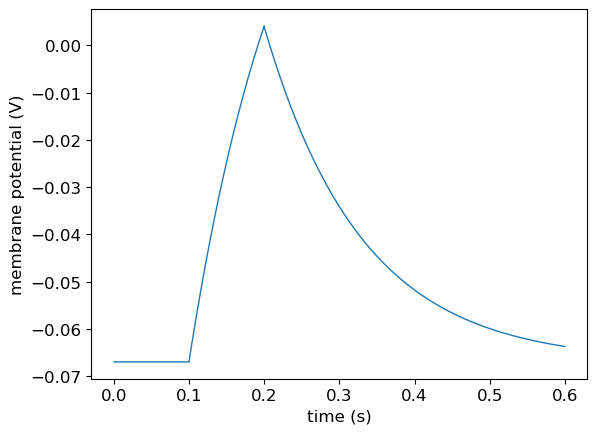
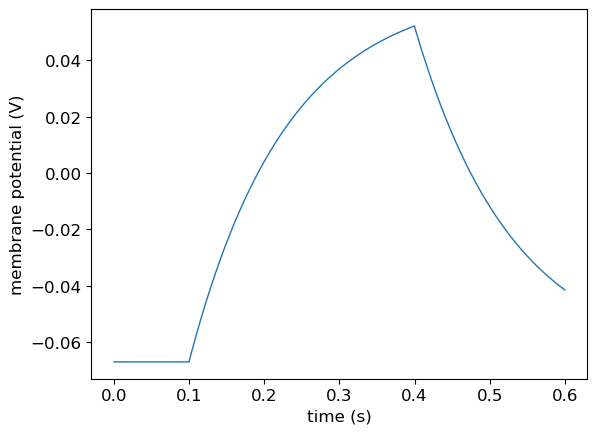
feat: update

diff --git a/source/Userdocs/NML2_examples/olm-example.py b/source/Userdocs/NML2_examples/olm-example.py
@@ -60,6 +60,11 @@ def main():
     simulation.add_column_to_output_file("output0",
                                          column_id="pop0_0_v_Seg1_dend_1",
                                          quantity="pop0/0/olm/7/v")
+    """
+    simulation.add_column_to_output_file("output0",
+                                         column_id="pg0",
+                                         quantity="explicitInput/pg_olm/i")
+    """
 
     # Save LEMS simulation to file
     sim_file = simulation.save_to_file()
@@ -85,6 +90,7 @@ def plot_data(sim_id):
     pynml.generate_plot([data_array[:, 0]], [data_array[:, 2]], "Membrane potential (soma seg 1)", show_plot_already=False, save_figure_to=sim_id + "seg1_soma0-v.png", xaxis="time (s)", yaxis="membrane potential (V)")
     pynml.generate_plot([data_array[:, 0]], [data_array[:, 3]], "Membrane potential (soma seg 1)", show_plot_already=False, save_figure_to=sim_id + "seg0_axon0-v.png", xaxis="time (s)", yaxis="membrane potential (V)")
     pynml.generate_plot([data_array[:, 0]], [data_array[:, 4]], "Membrane potential (soma seg 1)", show_plot_already=False, save_figure_to=sim_id + "seg1_axon0-v.png", xaxis="time (s)", yaxis="membrane potential (V)")
+    pynml.generate_plot([data_array[:, 0]], [data_array[:, 9]], "Current (pg)", show_plot_already=False, save_figure_to=sim_id + "pg-v.png", xaxis="time (s)", yaxis="current (amp)")
 
 
 def create_olm_network():
@@ -102,9 +108,9 @@ def create_olm_network():
     pop.instances.append(Instance(id="1", location=Location(x="0.0", y="0.0", z="0.0")))
 
     # Input
-    pulsegen = PulseGenerator(id="pg_olm", notes="Simple pulse generator", delay="100ms", duration="100ms", amplitude="0.08nA")
+    pulsegen = PulseGenerator(id="pg_olm", notes="Simple pulse generator", delay="100ms", duration="300ms", amplitude="0.08nA")
 
-    exp_input = ExplicitInput(target="pop0[0]", input="pg_olm")
+    exp_input = ExplicitInput(target="pop0/0/olm/0", input="pg_olm")
 
     net = Network(id="single_olm_cell_network", note="A network with a single population")
     net_doc.pulse_generators.append(pulsegen)
